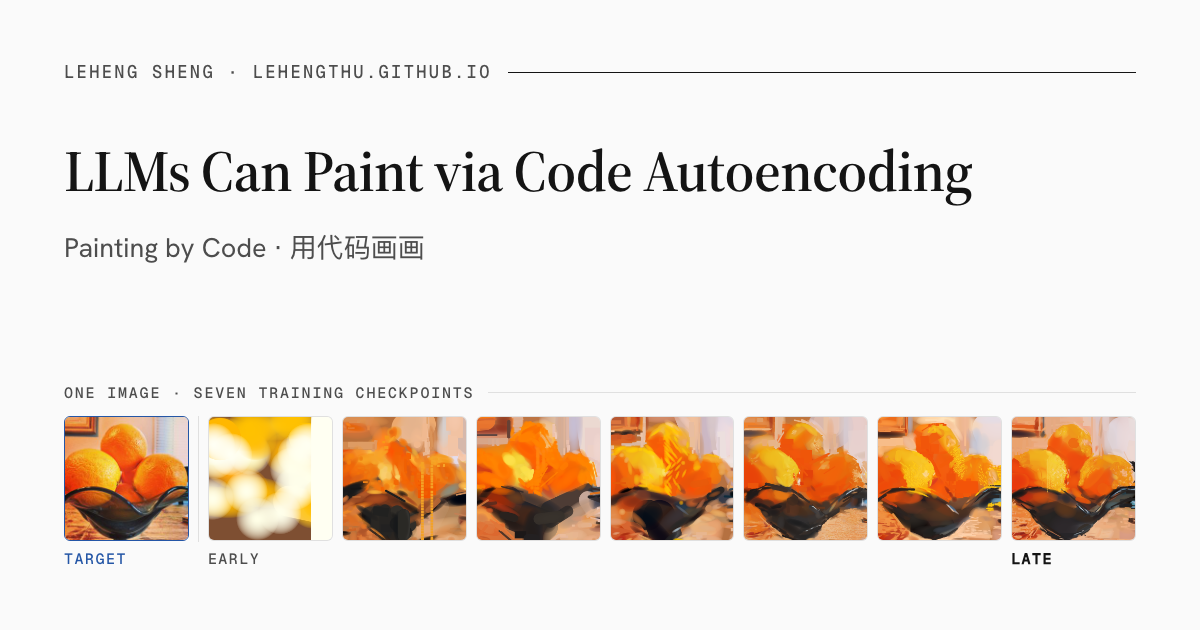
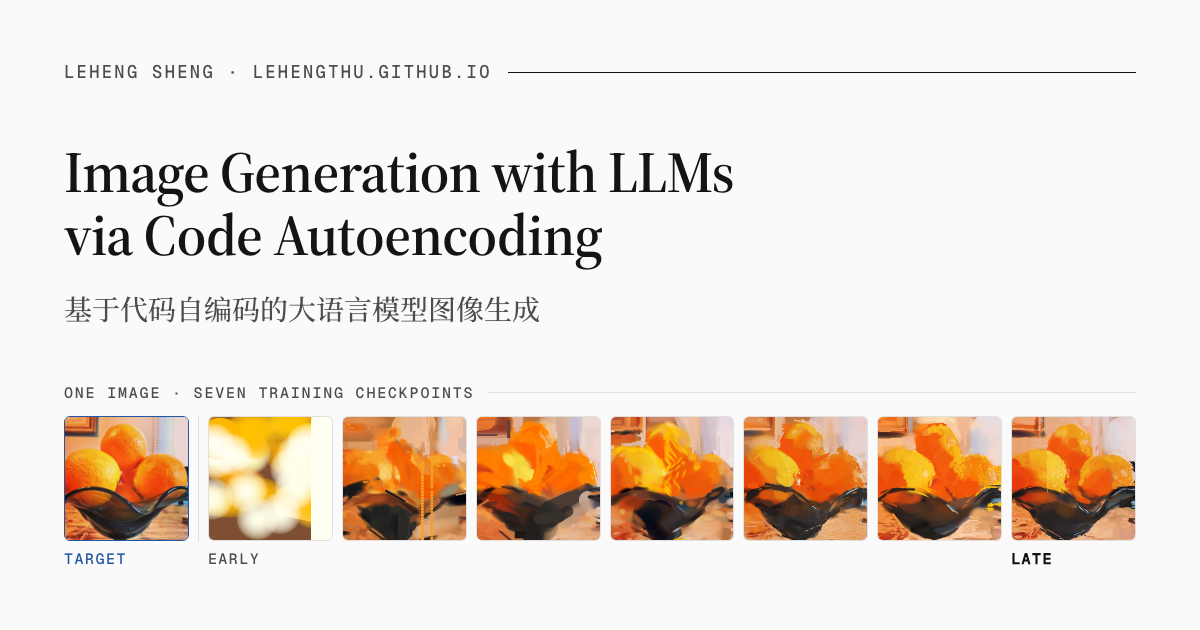
Retitle: Image Generation with LLMs via Code Autoencoding
New English and Chinese titles across the page, metadata, citation and link-preview image; the frontier-model figure is now titled Image Generation with Code.

Changed region(s): [[0.0308, 0.2413, 0.8325, 0.4222], [0.0617, 0.4524, 0.4625, 0.5127]]

diff --git a/_posts/2026-11-12-painting-by-code.html b/_posts/2026-11-12-painting-by-code.html
@@ -1,5 +1,5 @@
 ---
-title: "LLMs Can Paint via Code Autoencoding"
+title: "Image Generation with LLMs via Code Autoencoding"
 description: "We decompile images into executable Python stroke programs through code autoencoding and train a language model to paint with next-token prediction (NTP)."
 excerpt: "We decompile images into executable Python stroke programs through code autoencoding and train a language model to paint with next-token prediction (NTP)."
 layout: none
@@ -13,26 +13,26 @@ preview_poster: /blog/2026/painting-by-code/assets/video/film-preview.jpg
 <head>
 <meta charset="utf-8">
 <meta name="viewport" content="width=device-width, initial-scale=1">
-<title>LLMs Can Paint via Code Autoencoding - Leheng Sheng</title>
+<title>Image Generation with LLMs via Code Autoencoding - Leheng Sheng</title>
 <meta name="description" content="We decompile images into executable Python stroke programs through code autoencoding and train a language model to paint with next-token prediction (NTP).">
 <meta name="color-scheme" content="light">
 <meta name="theme-color" content="#FAFAFA">
 <link rel="canonical" href="https://lehengthu.github.io/blog/2026/painting-by-code/">
 <meta property="og:type" content="article">
 <meta property="og:site_name" content="Leheng Sheng">
-<meta property="og:title" content="LLMs Can Paint via Code Autoencoding">
+<meta property="og:title" content="Image Generation with LLMs via Code Autoencoding">
 <meta property="og:description" content="We decompile images into executable Python stroke programs through code autoencoding and train a language model to paint with next-token prediction (NTP).">
 <meta property="og:url" content="https://lehengthu.github.io/blog/2026/painting-by-code/">
-<meta property="og:image" content="https://lehengthu.github.io/blog/2026/painting-by-code/assets/og-cover.png">
+<meta property="og:image" content="https://lehengthu.github.io/blog/2026/painting-by-code/assets/og-cover.png?v=20261112-2310">
 <meta property="og:image:width" content="1200">
 <meta property="og:image:height" content="630">
 <meta property="article:published_time" content="2026-11-12">
 <meta name="twitter:card" content="summary_large_image">
-<meta name="twitter:title" content="LLMs Can Paint via Code Autoencoding">
+<meta name="twitter:title" content="Image Generation with LLMs via Code Autoencoding">
 <meta name="twitter:description" content="We decompile images into executable Python stroke programs through code autoencoding and train a language model to paint with next-token prediction (NTP).">
-<meta name="twitter:image" content="https://lehengthu.github.io/blog/2026/painting-by-code/assets/og-cover.png">
+<meta name="twitter:image" content="https://lehengthu.github.io/blog/2026/painting-by-code/assets/og-cover.png?v=20261112-2310">
 <script type="application/ld+json">
-{"@context":"https://schema.org","@type":"Article","headline":"LLMs Can Paint via Code Autoencoding","author":[{"@type":"Person","name":"Leheng Sheng","url":"https://lehengthu.github.io/"},{"@type":"Person","name":"Xiaosen Zheng","url":"https://xszheng2020.github.io/"},{"@type":"Person","name":"Wei Chow","url":"https://scholar.google.com/citations?user=br7-IGkAAAAJ"},{"@type":"Person","name":"Yuan Sui","url":"https://www.yuan-sui.com/"},{"@type":"Person","name":"Shizun Wang","url":"https://littlepure2333.github.io/home/"}],"datePublished":"2026-11-12","image":"https://lehengthu.github.io/blog/2026/painting-by-code/assets/og-cover.png","url":"https://lehengthu.github.io/blog/2026/painting-by-code/"}
+{"@context":"https://schema.org","@type":"Article","headline":"Image Generation with LLMs via Code Autoencoding","author":[{"@type":"Person","name":"Leheng Sheng","url":"https://lehengthu.github.io/"},{"@type":"Person","name":"Xiaosen Zheng","url":"https://xszheng2020.github.io/"},{"@type":"Person","name":"Wei Chow","url":"https://scholar.google.com/citations?user=br7-IGkAAAAJ"},{"@type":"Person","name":"Yuan Sui","url":"https://www.yuan-sui.com/"},{"@type":"Person","name":"Shizun Wang","url":"https://littlepure2333.github.io/home/"}],"datePublished":"2026-11-12","image":"https://lehengthu.github.io/blog/2026/painting-by-code/assets/og-cover.png","url":"https://lehengthu.github.io/blog/2026/painting-by-code/"}
 </script>
 <link rel="icon" type="image/png" sizes="32x32" href="/images/favicon-32.png">
 <link rel="apple-touch-icon" href="/images/favicon-180.png">
@@ -705,7 +705,7 @@ main .loss-card h4 { margin: 0 10px 12px; font-size: 1.1rem; }
 <button id="btn-zh" type="button" aria-pressed="false">中文</button>
 </div>
 </div>
-<h1><span class="zh">大语言模型可以通过代码自编码学习绘画</span><span class="en">LLMs Can Paint via Code Autoencoding</span></h1>
+<h1><span class="zh">基于代码自编码的大语言模型图像生成</span><span class="en">Image Generation with LLMs via Code Autoencoding</span></h1>
 <p class="ar-standfirst zh">我们用代码自编码把图片批量反编译成可执行的 Python 笔触程序，再用下一词预测（NTP）训练语言模型逐笔作画。</p>
 <p class="ar-standfirst en">We decompile images into executable Python stroke programs through code autoencoding and train a language model to paint with next-token prediction (NTP).</p>
 <div class="pbc-byline">
@@ -751,7 +751,7 @@ main .loss-card h4 { margin: 0 10px 12px; font-size: 1.1rem; }
 <p class="zh kicker">2026 年 11 月 9 日 Fable 5.2 发布当天，“用代码画画”刷屏。@Mr_Salio 让它分五个阶段画 Anthropic CEO Dario Amodei；第二天，@SMK_12159 回帖“GPT 也能做这个”，画了 OpenAI CEO Sam Altman。两个前沿语言模型选了同一条生成路径：不调用图像模型，用代码一笔一笔地画。</p>
 <p class="en kicker">On November 9, 2026, the day Fable 5.2 launched, “painting with code” went viral. @Mr_Salio asked it to paint Anthropic CEO Dario Amodei in five passes. The next day, @SMK_12159 replied “GPT can do this too” with a painting of OpenAI CEO Sam Altman. Both frontier language models took the same generation path: they called no image model and painted with code, stroke by stroke.</p>
 <figure class="pbc-figure" id="fig-videos">
-<header class="pbc-figure-head"><div class="pbc-figure-title"><span class="zh">两个模型用代码画出肖像</span><span class="en">Two models paint portraits with code</span></div><p class="pbc-figure-claim"><span class="zh">两段视频都没有调用图像或视频模型，画面由代码笔触逐笔生成。</span><span class="en">Neither video calls an image or video model, and both generate each frame stroke by stroke in code.</span></p></header>
+<header class="pbc-figure-head"><div class="pbc-figure-title"><span class="zh">用代码生成图像</span><span class="en">Image Generation with Code</span></div><p class="pbc-figure-claim"><span class="zh">两段视频都没有调用图像或视频模型，画面由代码笔触逐笔生成。</span><span class="en">Neither video calls an image or video model, and both generate each frame stroke by stroke in code.</span></p></header>
 <div class="pbc-video-actions"><button type="button" class="btn primary" id="duo-play"><svg class="pbc-btn-icon" viewBox="0 0 12 12" aria-hidden="true" focusable="false"><path d="M3.2 1.8 10 6 3.2 10.2z" fill="currentColor"/></svg><span class="zh">同时播放两条</span><span class="en">Play both</span></button></div>
 <div class="pbc-video-pair">
 <video id="vid-fable" src="/blog/2026/painting-by-code/assets/video/fable-dario.mp4" poster="/blog/2026/painting-by-code/assets/video/fable-dario.jpg" preload="metadata" playsinline controls></video>
@@ -1107,7 +1107,7 @@ main .loss-card h4 { margin: 0 10px 12px; font-size: 1.1rem; }
 <p class="en">To cite this post, please use the following BibTeX entry:</p>
 <div class="pbc-citation">
 <pre id="bibtex">@misc{sheng2026paintingbycode,
-  title        = {LLMs Can Paint via Code Autoencoding},
+  title        = {Image Generation with LLMs via Code Autoencoding},
   author       = {Sheng, Leheng and Zheng, Xiaosen and Chow, Wei and Sui, Yuan and Wang, Shizun},
   year         = {2026},
   howpublished = {Blog post},
